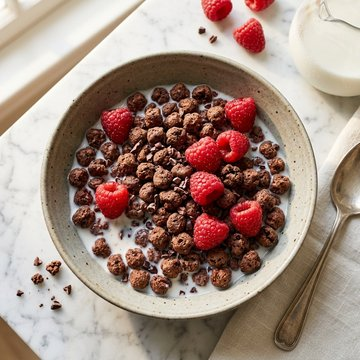
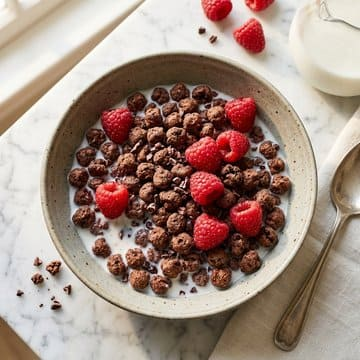
Disable and remove audio from template flipbook for smoother mobile page flipping

diff --git a/index.html b/index.html
@@ -21137,7 +21137,7 @@ Please provide:
         currentPage: 1,
         totalPages: 4,
         isSpreadMode: true,
-        isSoundEnabled: true,
+        isSoundEnabled: false,
         isFullscreen: false
       };
 
@@ -21482,9 +21482,7 @@ Please provide:
             const humanPage = pageIndex + 1;
             templateFlipState.currentPage = humanPage;
 
-            if (templateFlipState.isSoundEnabled && typeof playPageFlipSound === "function") {
-              playPageFlipSound();
-            }
+
           });
 
           templateFlipState.pageFlipInstance = pageFlip;
